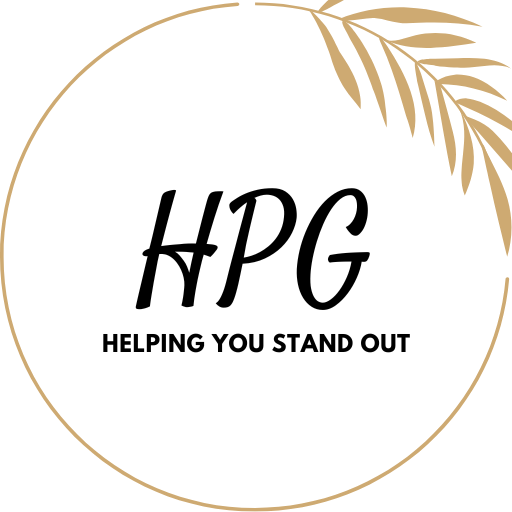
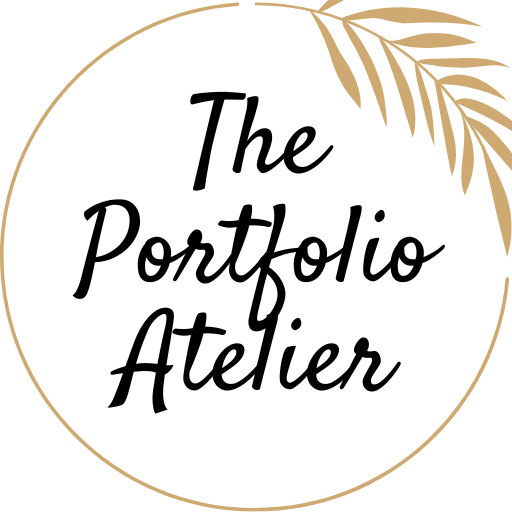
updated sample portfolio

Changed region(s): [[0.125, 0.1562, 0.875, 0.8125]]

diff --git a/app/page.tsx b/app/page.tsx
@@ -44,13 +44,13 @@ export default function Page() {
 
     sections: [
       {
-        title: "Projects",
-        description: "Your best work and what impact it had.",
+        title: "",
+        description: "",
         files: [
           {
-            title: "Project / Report 1",
-            topic: "What is the broad topic",
-            description: "What it is + what you achieved.",
+            title: "",
+            topic: "",
+            description: "",
             attachment: null,
           },
         ],
@@ -251,11 +251,11 @@ export default function Page() {
           <div className="rounded-3xl border border-[#cfd2d6] bg-white shadow-sm overflow-hidden">
             <div className="p-8">
               <p className="text-xs font-semibold tracking-[0.22em] uppercase text-zinc-500">
-                Welcome to Hong's Portfolio Generator
+                Welcome to The Portfolio Atelier
               </p>
 
               <h1 className="mt-3 text-3xl md:text-4xl font-bold leading-tight">
-                <span className="text-[#d4af37]">STAND OUT FROM OTHER JOB APPLICANTS </span>
+                <span className="text-[#d4af37]">MAKE YOUR RESUME STAND OUT </span>
                 WITH YOUR OWN PORTFOLIO WEBSITE
               </h1>
 
@@ -265,7 +265,7 @@ export default function Page() {
 
               <div className="mt-6 flex flex-col sm:flex-row gap-3">
                 <a
-                  href="https://tang-en-ci-nathan-portfolio.vercel.app/"
+                  href="https://nathanael-tan-soon-meng-portfolio.vercel.app/"
                   target="_blank"
                   rel="noopener noreferrer"
                   className="inline-flex items-center justify-center rounded-2xl border border-[#cfd2d6] bg-white px-5 py-3 font-semibold hover:bg-zinc-50"
@@ -284,19 +284,19 @@ export default function Page() {
           </div>
         </section>
 
-        {/* OUR PROMISES */}
+        {/* OUR SERVICES */}
         <section className="mt-8">
           <div className="rounded-3xl border border-[#cfd2d6] bg-white shadow-sm overflow-hidden">
             <div className="p-8">
 
               <h2 className="mt-3 text-3xl md:text-4xl font-bold leading-tight">
-                <span className="text-[#d4af37]">Our Promises </span>
+                <span className="text-[#d4af37]">Our Services </span>
               </h2>
 
               <div className="mt-6 grid gap-3 sm:grid-cols-2">
-                <Stat k="Key Deliverable" v="Portfolio Website" note="Custom Made for You" />
+                <Stat k="Key Deliverable" v="Portfolio Website" note="Custom Made for You Based on Our Templates" />
                 <Stat k="Quick Delivery" v="2–3 Days" note="After Order is Received" />
-                <Stat k="Payment On Delivery" v="$50 Fixed Price" note="Via PayNow" />
+                <Stat k="Payment On Delivery" v="$29.99 Fixed Price" note="Via PayNow" />
                 <Stat k="Quality Assured" v="Unlimited Revisions" note="Payment Only on Completion" />
               </div>
             </div>
@@ -339,7 +339,7 @@ export default function Page() {
                   className="mt-2 w-full min-h-[120px] rounded-3xl border border-[#cfd2d6] bg-white p-5 text-sm focus:outline-none focus:ring-2 focus:ring-[#d4af37]/40"
                   value={form.about}
                   onChange={(e) => update("about", e.target.value)}
-                  placeholder="E.g., I’m a final-year student interested in product and analytics. I’ve led projects in..."
+                  placeholder="e.g., I’m a final-year student interested in product and analytics. I’ve led projects in..."
                 />
               </div>
 
@@ -410,11 +410,14 @@ export default function Page() {
                           label={`Section ${sIdx + 1} Title`}
                           value={sec.title}
                           onChange={(v) => updateSection(sIdx, { title: v })}
+                          placeholder="e.g. Financial Risk Management"
                         />
+
                         <Field
                           label={`Section ${sIdx + 1} Description`}
                           value={sec.description}
                           onChange={(v) => updateSection(sIdx, { description: v })}
+                          placeholder="e.g. Coursework completed as part of my Financial Risk Management module"
                         />
                       </div>
 
@@ -447,14 +450,14 @@ export default function Page() {
                                 label={`File ${fIdx + 1} Title`}
                                 value={f.title}
                                 onChange={(v) => updateFile(sIdx, fIdx, { title: v })}
-                                placeholder="e.g. Customer Churn Analysis"
+                                placeholder="e.g. Measuring Macroeconomic Tail Risk"
                               />
 
                               <Field
                                 label="Topic"
                                 value={f.topic}
                                 onChange={(v) => updateFile(sIdx, fIdx, { topic: v })}
-                                placeholder="e.g. Data Analytics, Marketing, Research"
+                                placeholder="e.g. Management of Macroeconomic Risks"
                               />
                             </div>
 
@@ -464,7 +467,7 @@ export default function Page() {
                                 className="mt-2 w-full min-h-[120px] rounded-2xl border border-[#cfd2d6] bg-white p-4 text-sm focus:outline-none focus:ring-2 focus:ring-[#d4af37]/40"
                                 value={f.description}
                                 onChange={(e) => updateFile(sIdx, fIdx, { description: e.target.value })}
-                                placeholder="What was the problem? What did you do? What was the outcome?"
+                                placeholder="e.g. This paper studies long-run tail risks in consumption and GDP using data from 42 countries (1900–2020), showing that macroeconomic tail risk helps explain asset prices and the equity premium."
                               />
                             </div>
 
@@ -571,13 +574,13 @@ export default function Page() {
                 <ChoiceCard
                   selected={form.hostingOption === "self_hosted"}
                   title="Self-Hosted Domain"
-                  desc="Simply purchase your own domain, and we will teach you how to host your portfolio website."
+                  desc="Simply purchase your own domain, and we will help you host your portfolio website on your domain for no additional cost."
                   onClick={() => update("hostingOption", "self_hosted")}
                 />
                 <ChoiceCard
                   selected={form.hostingOption === "need_help"}
-                  title="HPG Hosted Domain"
-                  desc="Let us know what domain name you would like, we will host it for you for free."
+                  title="The Portfolio Atelier Hosted Domain"
+                  desc="Let us know what domain name you would like, we will host it for you for an additional $19.99 per year (subject to availability)."
                   onClick={() => update("hostingOption", "need_help")}
                 />
               </div>
@@ -585,12 +588,12 @@ export default function Page() {
 
             {/* OTHER */}
             <div className="mt-10">
-              <label className="text-sm font-semibold">Other comments</label>
+              <label className="text-sm font-semibold">Other Comments</label>
               <textarea
                 className="mt-2 w-full min-h-[140px] rounded-3xl border border-[#cfd2d6] bg-white p-5 text-sm focus:outline-none focus:ring-2 focus:ring-[#d4af37]/40"
                 value={form.otherComments}
                 onChange={(e) => update("otherComments", e.target.value)}
-                placeholder="Target role, preferred tone, what to highlight, anything to avoid, etc."
+                placeholder="Let us know how else we can help you."
               />
             </div>
 
@@ -618,7 +621,7 @@ export default function Page() {
                   </div>
                   <div className="mt-2 text-sm text-zinc-600">
                     Next: I’ll review your details and send a preview link. Payment is{" "}
-                    <span className="font-semibold text-[#d4af37]">$50 via PayNow after completion</span>.
+                    <span className="font-semibold text-[#d4af37]">$29.99 via PayNow after completion</span>.
                   </div>
                 </div>
               )}
@@ -643,19 +646,19 @@ export default function Page() {
 
             <div className="mt-6 grid gap-4 md:grid-cols-3">
               <TestimonialCard
-                quote="Having a portfolio website made my applications feel much more professional. Recruiters actually clicked through my work."
-                name="Business Analytics Student"
+                quote="I sent out job applications for weeks with no replies. After adding my portfolio website to my CV, I finally got callbacks."
+                name="Business Student"
                 role="Final-year Undergraduate"
               />
 
               <TestimonialCard
-                quote="The structure helped me explain my projects clearly instead of dumping PDFs. It really improved how my experience came across."
+                quote="I didn’t realise it could be so easy and affordable to build a portfolio that actually gets results. If only I had discovered this earlier."
                 name="Marketing Associate"
                 role="Early-career Professional"
               />
 
               <TestimonialCard
-                quote="I didn’t know how to present my work before. The portfolio made it easy for interviewers to understand what I actually did."
+                quote="It has been so difficult proving my skills, ability and experience to recruiters. The Portfolio Atelier made it so much easier."
                 name="Engineering Graduate"
                 role="Job Seeker"
               />
@@ -680,28 +683,10 @@ export default function Page() {
         <section className="mt-10">
           <div className="h-px bg-gradient-to-r from-transparent via-[#cfd2d6] to-transparent" />
           <footer className="p-6 text-center text-sm text-zinc-500">
-            © {new Date().getFullYear()} — Hong&apos;s Portfolio Generator
+            © {new Date().getFullYear()} — The Portfolio Atelier
           </footer>
         </section>
       </div>
-
-      {/* WhatsApp Floating Button */}
-      <a
-        href="https://wa.me/6592222341" // replace with your number
-        target="_blank"
-        rel="noopener noreferrer"
-        className="fixed bottom-6 right-6 z-50 flex items-center justify-center h-14 w-14 rounded-full bg-[#25D366] shadow-lg hover:scale-105 transition"
-        aria-label="Chat on WhatsApp"
-      >
-        <svg
-          xmlns="http://www.w3.org/2000/svg"
-          viewBox="0 0 32 32"
-          fill="white"
-          className="h-7 w-7"
-        >
-          <path d="M16.002 3.2c-7.062 0-12.8 5.738-12.8 12.8 0 2.258.592 4.467 1.715 6.417L3.2 28.8l6.6-1.72a12.74 12.74 0 006.202 1.602h.002c7.06 0 12.796-5.738 12.796-12.8 0-7.062-5.736-12.8-12.798-12.8zm0 22.8h-.002a10.76 10.76 0 01-5.486-1.502l-.392-.232-3.92 1.02 1.048-3.822-.256-.392a10.722 10.722 0 01-1.644-5.712c0-5.976 4.864-10.84 10.848-10.84 5.978 0 10.844 4.864 10.844 10.84 0 5.978-4.866 10.84-10.84 10.84zm6.048-7.952c-.33-.166-1.95-.962-2.252-1.072-.302-.11-.522-.166-.742.166-.22.33-.852 1.072-1.046 1.292-.194.22-.388.248-.718.082-.33-.166-1.392-.514-2.652-1.64-.98-.872-1.64-1.95-1.834-2.28-.194-.33-.02-.508.146-.674.15-.148.33-.388.496-.582.166-.194.22-.33.33-.55.11-.22.056-.414-.028-.58-.084-.166-.742-1.788-1.016-2.452-.266-.64-.536-.554-.742-.564l-.634-.012c-.22 0-.58.082-.882.414-.302.33-1.156 1.128-1.156 2.752 0 1.624 1.186 3.194 1.352 3.414.166.22 2.336 3.568 5.66 5.002.792.342 1.41.546 1.892.698.796.252 1.52.216 2.094.132.638-.096 1.95-.798 2.226-1.57.276-.772.276-1.434.194-1.57-.084-.136-.302-.22-.634-.386z" />
-        </svg>
-      </a>
 
     </main>
   );
@@ -746,7 +731,9 @@ function Field({
         {label} {required ? <span className="text-[#d4af37]">*</span> : null}
       </label>
       <input
-        className="h-11 rounded-2xl border border-[#cfd2d6] bg-white px-4 text-sm focus:outline-none focus:ring-2 focus:ring-[#d4af37]/40"
+        className="h-11 rounded-2xl border border-[#cfd2d6] bg-white px-4 text-sm
+                   focus:outline-none focus:ring-2 focus:ring-[#d4af37]/40
+                   placeholder:text-zinc-400"
         value={value}
         onChange={(e) => onChange(e.target.value)}
         placeholder={placeholder}
@@ -754,6 +741,7 @@ function Field({
     </div>
   );
 }
+
 
 function ChoiceCard({
   selected,
@@ -831,7 +819,7 @@ function FAQAccordion() {
     },
     {
       q: "How does payment work?",
-      a: "Payment is $50 via PayNow, and is only required after the portfolio website is completed and you’ve reviewed the preview.",
+      a: "Payment is $29.99 via PayNow, and is only required after the portfolio website is completed and you’ve reviewed the preview.",
     },
   ];
 
@@ -907,3 +895,4 @@ function TestimonialCard({
     </div>
   );
 }
+

diff --git a/app/layout.tsx b/app/layout.tsx
@@ -13,8 +13,8 @@ const geistMono = Geist_Mono({
 });
 
 export const metadata: Metadata = {
-  title: "Hong's Portfolio Generator",
-  description: "Stand Out from Other Job Applicants with Your Own Portfolio Website",
+  title: "The Portfolio Atelier",
+  description: "Make your Resume Stand Out with Your Own Portfolio Website",
 };
 
 export default function RootLayout({
